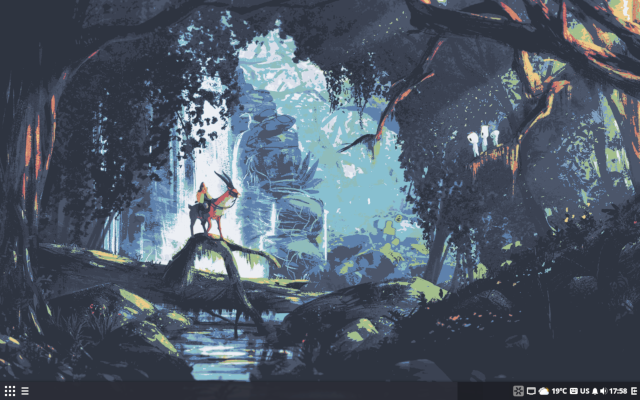
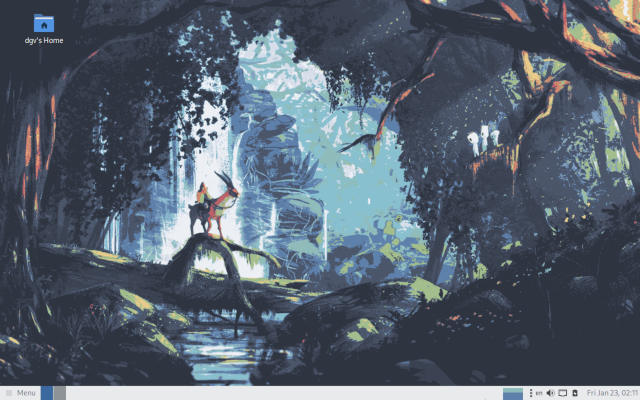
moved back to mate, due to https://github.com/BuddiesOfBudgie/budgie-desktop/issues/783 issue

Changed region(s): [[0.0, 0.93, 1.0, 1.0], [0.0312, 0.03, 0.0938, 0.12]]

diff --git a/README.md b/README.md
@@ -5,16 +5,16 @@
 I miss the old days running Lubuntu with LXDE (old one, not LXQT), a lite desktop environment on stable linux distribution, nowadays most distributions require 4GB of RAM, any GNOME/KDE plasma environment consumes ~1.5GB of RAM, LXDE/QT or IceWM became clunky/clumsy, XFCE not support tiling natively, Zorin Lite was deprecated and not support arm64, also don't wanna go full on tiling environments using sway or hyprland...
 
 expectations
-- ~900MB memory footprint
+- ~700MB memory footprint
 - tiling support
 - dark/light theme
 - familiar UI/shortcuts etc (from win/macos)
 
 requirements
-- debian 13 (trixie)
-- amd64 device
+- debian 13 (trixie) or armbian
+- amd64 or aarch64 device
 - 2GB of RAM 
-- 6GB of disk space
+- 5GB of disk space
 
 ## boot (simple plymouth theme)
 ![boot](/boot.png)
@@ -22,28 +22,37 @@ requirements
 ## login (lightdm using slick-greeter)
 ![login](/login.png)
 
-## desktop (budgie desktop environment)
+## desktop (mate desktop environment)
 ![desktop](/desktop.png)
 
 ![fastfetch](/fastfetch.png)
 
 ## default apps
-![default](/default.png)
 
-## another apps
+- Web browser: LibreWolf
+- Mail Reader: Geary
+- Image Viewer: Eye 
+- Media Player: mpv
+- Text Editor: Pluma
+- Terninal: MATE Terminal
+- File Manager: Caja
+- Calculator: MATE Calc
+- Doc Viewer: Atril
+- Word Processor: AbiWord
+- Spreadsheet: Gnumeric
 
-- text editor: mousepad 
-- calculator: galculator
-- terminal: ghostty
-- document viewer: atril
-- tools: xarchiver (archive manager), solaar (logitech dev manager), ykman (yubikey manager), gparted (disk partitions), transmission (p2p), gufw (firewall)...
+## extra capababilities
+
+- manage logitech devices using solaar
+- ready for mobile internet connection via usb
+- added non-free repos
 
 ## installation
 
 Just install debian as usual, on software selection choose `SSH server` and `standard system utilities`, then after first reboot run as root:
 
 ```bash
-wget -O - http://dgv.dev.br/ombian/setup.sh | bash
+wget -O - https://dgv.dev.br/ombian/setup.sh | bash
 ```
 
 ## bonus
@@ -61,3 +70,8 @@ Some flatpaks apps
 wget -O - https://dgv.dev.br/ombian/flatpaks.sh | bash
 ```
 
+Development tools 
+
+```bash
+wget -O - https://dgv.dev.br/ombian/dev.sh | bash
+```
